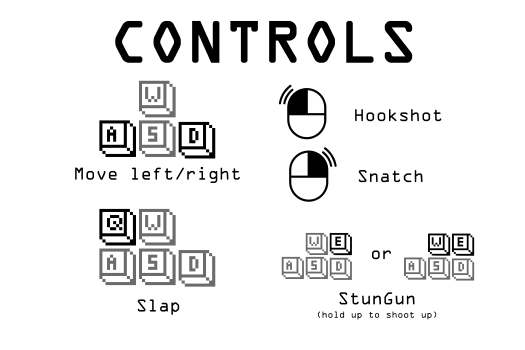
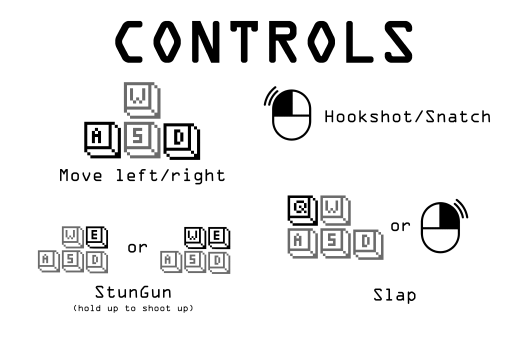
updated controls

diff --git a/GAME1017_Template_W01/States.cpp b/GAME1017_Template_W01/States.cpp
@@ -328,7 +328,7 @@ void TitleState::Enter()
 	m_playBtn = new PlayButton({ 0,0,400,100 }, { 312.0f,400.0f,400.0f,100.0f }, Engine::Instance().GetRenderer(), TEMA::GetTexture("play"));
 	m_quitBtn = new QuitButton({ 0,0,400,100 }, { 312.0f,520.0f,400.0f,100.0f }, Engine::Instance().GetRenderer(), TEMA::GetTexture("exit"));
 	m_controlsBtn = new ControlsButton({ 0,0,200,47 }, { 824.0f,721.0f,200.0f,47.0f }, Engine::Instance().GetRenderer(), TEMA::GetTexture("control"));
-	instructions = new Sprite({ 0,0,525,350 }, { 260.5f,140.0f,525.0f,350.0f }, Engine::Instance().GetRenderer(), TEMA::GetTexture("controls"));
+	instructions = new Sprite({ 0,0,525,350 }, { 260.5f,170.0f,525.0f,350.0f }, Engine::Instance().GetRenderer(), TEMA::GetTexture("controls"));
 	background = new Sprite({ 0,0,1204,768 }, { 0.0f,0.0f,1204.0f,768.0f }, Engine::Instance().GetRenderer(), TEMA::GetTexture("bg"));
 	words[0] = new Label("fontLarge", 180, 110, "SPACECRAFT", { 188,7,208,0 });
 	words[1] = new Label("fontLarge", 260, 200, "Wiggatry", { 255,255,255,0 });
@@ -437,7 +437,7 @@ void TitleState::Render()
 		SDL_Rect rect = { 173, 128, 700, 512 };
 		SDL_RenderFillRect(Engine::Instance().GetRenderer(), &rect);
 		instructions->Render();
-		words[6]->Render();
+		words[5]->Render();
 	}
 
 	State::Render();
